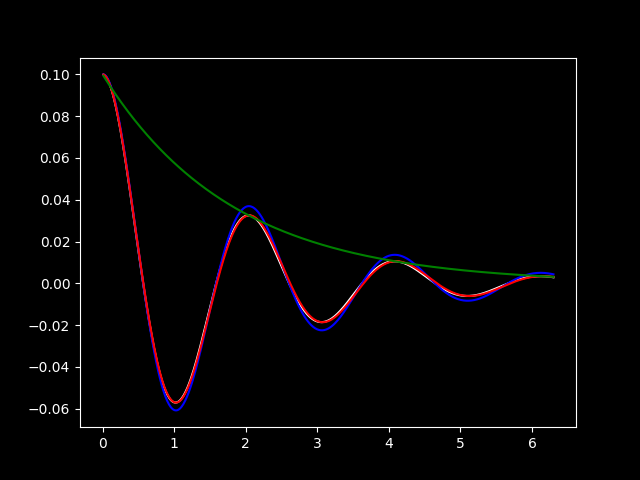
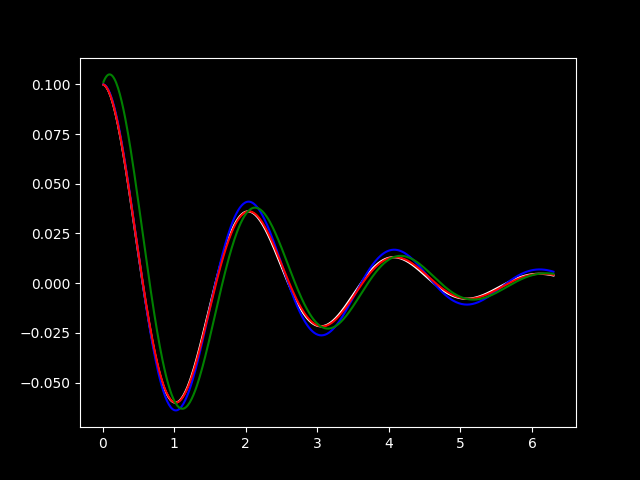
Exact Solution added

diff --git a/shower.py b/shower.py
@@ -5,6 +5,15 @@ import sys
 import argparse
 
 
+def funExacte(t,y, K, GL):
+    q_1 = - (K + np.sqrt(K**2 - 4*GL))/2
+    q_2 = (-K + np.sqrt(K**2 - 4*GL))/2
+
+    B = (y[1] - q_1*y[0])/(q_2 -q_1)
+    A = y[0] - B
+
+    return A * np.exp(q_1 * t) + B * np.exp(q_2 * t)
+
 def fun(t, theta, g=9.81, l=1, m=1, k=0):
     theta_1 = theta[0]
     theta_2 = theta[1]
@@ -33,8 +42,7 @@ def generateGraph(imgfile, G, L, M, K, T, N, A, S):
     generatePlot(imgfile, G, L, M, K, T, N, A, S, equation1, 'w', fun)
     generatePlot(imgfile, G, L, M, K, T, N, A, S, equation2, 'b', fun)
     generatePlot(imgfile, G, L, M, K, T, N, A, S, equation3, 'r', fun)
-    generatePlot(imgfile, G, L, M, K, T, N, A, S, equation4,
-                 'g', lambda t, y: y * np.exp(-K/M*t/2))
+    generatePlot(imgfile, G, L, M, K, T, N, A, S, equation4, 'g', lambda t, y: y[0] * np.exp(-K/M*t/2) * (np.cos(np.sqrt(G/L - ((K/M)**2)/4)*t) + (K/M)/2*np.sin(np.sqrt(G/L - ((K/M)**2)/4)*t)))
 
 
 def generatePlot(imgfile, G, L, M, K, T, N, A, S, eq, c, fun):
@@ -55,14 +63,15 @@ def main():
     parser = argparse.ArgumentParser(description=descript)
 
     parser.add_argument('--file', dest='imgfile', required=False)
-    parser.add_argument('--G', dest='G', required=False)
-    parser.add_argument('--L', dest='L', required=False)
-    parser.add_argument('--M', dest='M', required=False)
-    parser.add_argument('--K', dest='K', required=False)
-    parser.add_argument('--T', dest='T', required=False)
-    parser.add_argument('--N', dest='N', required=False)
-    parser.add_argument('--A', dest='A', required=False)
-    parser.add_argument('--S', dest='S', required=False)
+    parser.add_argument('-G', dest='G', required=False)
+    parser.add_argument('-L', dest='L', required=False)
+    parser.add_argument('-M', dest='M', required=False)
+    parser.add_argument('-K', dest='K', required=False)
+    parser.add_argument('-T', dest='T', required=False)
+    parser.add_argument('-N', dest='N', required=False)
+    parser.add_argument('-A', dest='A', required=False)
+    parser.add_argument('-S', dest='S', required=False)
+    parser.add_argument('-H', dest='H', required=False)
 
     args = parser.parse_args()
 

diff --git a/script.py b/script.py
@@ -6,7 +6,7 @@ background_colour = '#000000'
 text_colour = '#EEEEEE'
 
 def Create():
-    returned = os.system('python shower.py --file graph.png  --G {0} --L {1} --M {2} --K {3} --T {4} --N {5} --A {6} --S {7}'.format(
+    returned = os.system('python shower.py --file graph.png  -G {0} -L {1} -M {2} -K {3} -T {4} -N {5} -A {6} -S {7}'.format(
                                                                                             float(G_var.get()), 
                                                                                             float(L_var.get()),
                                                                                             float(M_var.get()),

diff --git a/solver.py b/solver.py
@@ -31,6 +31,5 @@ def equation3(fun, args, theta_0=[1, 1], t_max=np.pi*2, n=50):
 
 def equation4(fun, args, theta_0=[1, 1], t_max=np.pi*2, n=50):
     t_span = np.linspace(0, t_max, n-3)
-    theta = fun(t_span, theta_0[0])
-    print(theta)
+    theta = fun(t_span, theta_0)
     return t_span, theta
